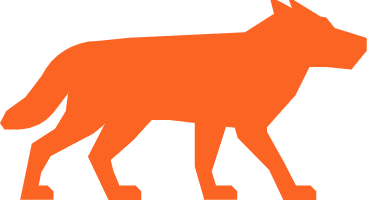
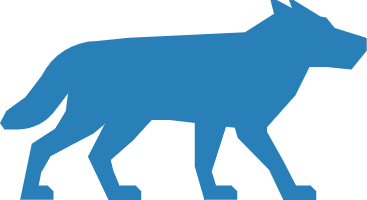
Site updated: 2021-05-30 20:34:26

diff --git a/css/main.css b/css/main.css
@@ -5,7 +5,7 @@
   --text-color: #555;
   --blockquote-color: #666;
   --link-color: #555;
-  --link-hover-color: #fc6423;
+  --link-hover-color: #2980b9;
   --brand-color: #fff;
   --brand-hover-color: #fff;
   --table-row-odd-bg-color: #f9f9f9;
@@ -14,9 +14,9 @@
   --btn-default-bg: #fff;
   --btn-default-color: #555;
   --btn-default-border-color: #555;
-  --btn-default-hover-bg: #fc6423;
+  --btn-default-hover-bg: #2980b9;
   --btn-default-hover-color: #fff;
-  --btn-default-hover-border-color: #fc6423;
+  --btn-default-hover-border-color: #2980b9;
   --highlight-background: #fafafa;
   --highlight-foreground: #383a42;
   --highlight-gutter-background: #e6e6e7;
@@ -919,13 +919,13 @@ pre code {
   border-bottom-color: transparent;
   border-left-color: #ddd;
   border-right-color: #ddd;
-  border-top-color: #fc6423;
+  border-top-color: #f39c12;
 }
 @media (max-width: 413px) {
   .post-body .tabs ul.nav-tabs li.tab.active,
   .tabs-comment ul.nav-tabs li.tab.active {
     border-bottom-color: #ddd;
-    border-left-color: #fc6423;
+    border-left-color: #f39c12;
     border-right-color: #ddd;
     border-top-color: #ddd;
   }
@@ -1150,7 +1150,7 @@ pre code {
   padding-top: 0;
 }
 .headband {
-  background: #fc6423;
+  background: #2980b9;
   height: 3px;
 }
 @media (max-width: 991px) {
@@ -1323,7 +1323,7 @@ pre code {
 }
 .github-corner svg {
   color: #fff;
-  fill: #FC6423;
+  fill: #2980b9;
   position: absolute;
   right: 0;
   top: 0;
@@ -1334,7 +1334,7 @@ pre code {
     display: none;
   }
   .github-corner svg {
-    color: #FC6423;
+    color: #2980b9;
     fill: #fff;
   }
   .github-corner .github-corner:hover .octo-arm {
@@ -1411,10 +1411,6 @@ pre code {
   max-width: 120px;
   padding: 2px;
   border-radius: 50%;
-  transition: transform 1s ease-out;
-}
-.site-author-image:hover {
-  transform: rotateZ(360deg);
 }
 .site-author-name {
   color: var(--text-color);
@@ -1433,9 +1429,9 @@ pre code {
   margin-top: 15px;
 }
 .sidebar .sidebar-button a {
-  border: 1px solid #fc6423;
+  border: 1px solid #f39c12;
   border-radius: 4px;
-  color: #fc6423;
+  color: #f39c12;
   display: inline-block;
   padding: 0 15px;
 }
@@ -1446,8 +1442,8 @@ pre code {
   margin-right: 5px;
 }
 .sidebar .sidebar-button a:hover {
-  background: #fc6423;
-  border: 1px solid #fc6423;
+  background: #f39c12;
+  border: 1px solid #f39c12;
   color: #fff;
 }
 .sidebar .sidebar-button a:hover .fa,
@@ -1511,16 +1507,16 @@ pre code {
   margin-left: 10px;
 }
 .sidebar-nav li:hover {
-  color: #fc6423;
+  color: #f39c12;
 }
 .sidebar-toc-active .sidebar-nav-toc,
 .sidebar-overview-active .sidebar-nav-overview {
-  border-bottom-color: #fc6423;
-  color: #fc6423;
+  border-bottom-color: #f39c12;
+  color: #f39c12;
 }
 .sidebar-toc-active .sidebar-nav-toc:hover,
 .sidebar-overview-active .sidebar-nav-overview:hover {
-  color: #fc6423;
+  color: #f39c12;
 }
 .sidebar-panel-container {
   max-height: var(--sidebar-wrapper-height);
@@ -1543,7 +1539,7 @@ pre code {
   height: 12px;
   padding: 6px 5px;
   width: 14px;
-  background: #fc6423;
+  background: #2980b9;
   cursor: pointer;
   opacity: 0.6;
   position: fixed;
@@ -1564,7 +1560,7 @@ pre code {
   }
 }
 .sidebar-toggle:hover .toggle-line {
-  background: #fc6423;
+  background: #f39c12;
 }
 @media (any-hover: hover) {
   body:not(.sidebar-active) .sidebar-toggle:hover .toggle-line:first-child {
@@ -1625,14 +1621,14 @@ pre code {
   display: block;
 }
 .post-toc .nav .active > a {
-  border-bottom-color: #fc6423;
-  color: #fc6423;
+  border-bottom-color: #f39c12;
+  color: #f39c12;
 }
 .post-toc .nav .active-current > a {
-  color: #fc6423;
+  color: #f39c12;
 }
 .post-toc .nav .active-current > a:hover {
-  color: #fc6423;
+  color: #f39c12;
 }
 .site-state {
   display: flex;
@@ -1769,22 +1765,18 @@ pre code {
 .back-to-top {
   font-size: 12px;
 }
-.back-to-top span {
-  display: none;
-}
 .back-to-top {
   bottom: -100px;
   box-sizing: border-box;
   color: #fff;
   padding: 0 6px;
   transition: bottom 0.2s ease-in-out;
-  background: #fc6423;
+  background: #2980b9;
   cursor: pointer;
   opacity: 0.6;
   position: fixed;
   z-index: 1300;
   right: 30px;
-  width: 24px;
 }
 @media (max-width: 991px) {
   .back-to-top {
@@ -1800,13 +1792,13 @@ pre code {
   }
 }
 .back-to-top:hover {
-  color: #fc6423;
+  color: #f39c12;
 }
 .back-to-top.back-to-top-on {
   bottom: 30px;
 }
 .noscript-warning {
-  background-color: #f55;
+  background-color: #fd834f;
   color: #fff;
   font-family: sans-serif;
   font-size: 1rem;
@@ -1820,7 +1812,7 @@ pre code {
 }
 .reading-progress-bar {
   --progress: 0;
-  background: #FC6423;
+  background: #2980b9;
   height: 3px;
   position: fixed;
   z-index: 1500;
@@ -1938,7 +1930,7 @@ pre code {
   border-bottom-color: #666;
 }
 .posts-collapse .post-content .post-header:hover::before {
-  background: #fc6423;
+  background: #2980b9;
 }
 .posts-collapse .post-content .post-meta-container {
   display: inline;
@@ -2239,7 +2231,7 @@ pre code {
   list-style: none;
   padding: 0.5em 1em;
   background: var(--card-bg-color);
-  border-left: 3px solid #ff2a2a;
+  border-left: 3px solid #fc6423;
   margin: 1em 0 0;
 }
 .post-tags {
@@ -2278,9 +2270,9 @@ pre code {
 }
 .reward-container button {
   background: transparent;
-  border: 2px solid #fc6423;
+  border: 2px solid #f39c12;
   border-radius: 2px;
-  color: #fc6423;
+  color: #f39c12;
   cursor: pointer;
   line-height: 2;
   outline: 0;
@@ -2289,7 +2281,7 @@ pre code {
   vertical-align: text-top;
 }
 .reward-container button:hover {
-  background: #fc6423;
+  background: #f39c12;
   border: 2px solid transparent;
   color: #fff;
 }
@@ -2371,11 +2363,11 @@ pre code {
   padding-left: 10px;
 }
 .event-list hr {
-  background: #fc6423;
+  background: #2980b9;
   margin: 20px 0 45px;
 }
 .event-list hr::after {
-  background: #fc6423;
+  background: #2980b9;
   color: #fff;
   content: 'NOW';
   display: inline-block;
@@ -2383,7 +2375,7 @@ pre code {
   padding: 0 5px;
 }
 .event-list .event {
-  --event-background: #fc6423;
+  --event-background: #2980b9;
   --event-foreground: #bbb;
   --event-title: #fff;
   background: var(--event-background);
@@ -2447,7 +2439,7 @@ pre code {
 .event-list .event-past {
   --event-background: #f5f5f5;
   --event-foreground: #999;
-  --event-title: #fc6423;
+  --event-title: #2980b9;
 }
 @-moz-keyframes dot-flash {
   from {
@@ -2606,7 +2598,7 @@ ul.breadcrumb li:last-child {
   cursor: pointer;
 }
 .search-popup .popup-btn-close:hover .fa {
-  color: #fc6423;
+  color: #2980b9;
 }
 .search-popup .search-header {
   background: #eee;
@@ -2662,8 +2654,8 @@ ul.breadcrumb li:last-child {
 }
 mark.search-keyword {
   background: transparent;
-  border-bottom: 1px dashed #ff2a2a;
-  color: #ff2a2a;
+  border-bottom: 1px dashed #fc6423;
+  color: #fc6423;
   font-weight: bold;
 }
 mjx-container[jax="CHTML"][display="true"],
@@ -2737,7 +2729,7 @@ mjx-container[display="true"] + br {
   }
 }
 .site-brand-container {
-  background: #fc6423;
+  background: #2980b9;
 }
 @media (max-width: 991px) {
   .site-nav-on .site-brand-container {
@@ -2831,14 +2823,14 @@ mjx-container[display="true"] + br {
 }
 .sub-menu .menu-item a:hover {
   background: transparent;
-  color: #fc6423;
+  color: #f39c12;
 }
 .sub-menu .menu-item-active {
-  border-bottom-color: #fc6423;
-  color: #fc6423;
+  border-bottom-color: #f39c12;
+  color: #f39c12;
 }
 .sub-menu .menu-item-active:hover {
-  border-bottom-color: #fc6423;
+  border-bottom-color: #f39c12;
 }
 .sidebar {
   margin-top: 12px;
@@ -2872,19 +2864,19 @@ mjx-container[display="true"] + br {
 }
 .sidebar .sidebar-button a {
   border: 0;
-  color: #fc6423;
+  color: #f39c12;
   display: block;
 }
 .sidebar .sidebar-button a:hover {
   background: none;
   border: 0;
-  color: #e34603;
+  color: #c77e0a;
 }
 .sidebar .sidebar-button a:hover .fa,
 .sidebar .sidebar-button a:hover .fab,
 .sidebar .sidebar-button a:hover .far,
 .sidebar .sidebar-button a:hover .fas {
-  color: #e34603;
+  color: #c77e0a;
 }
 .links-of-author {
   display: flex;
